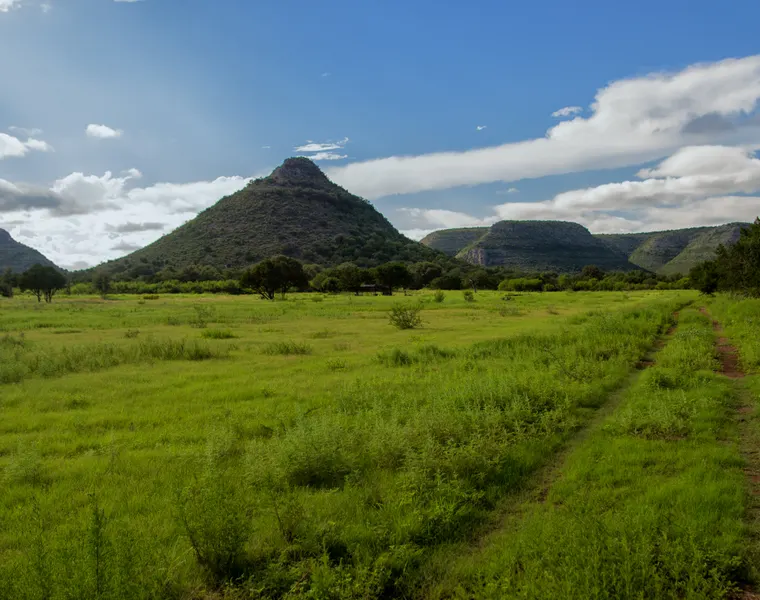
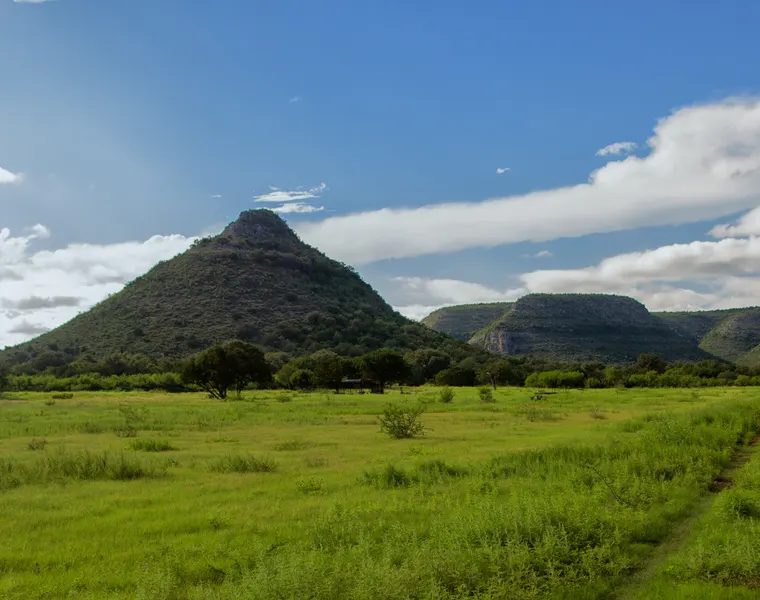
Modificaciones de Junta

diff --git a/script.js b/script.js
@@ -225,7 +225,7 @@ const T = {
           "Todo incluido (3 comidas + alcohol)",
           "↳ Hospedaje",
           "↳ Guía",
-          "↳ 1 animal",
+          "↳ 1 Venado",
         ],
         deposit: 7500,
       },
@@ -239,7 +239,7 @@ const T = {
           "Todo incluido (3 comidas + alcohol)",
           "↳ Hospedaje",
           "↳ Guía",
-          "↳ 1 animal",
+          "↳ 1 Venado",
         ],
         deposit: 7500,
       },
@@ -253,7 +253,7 @@ const T = {
           "Todo incluido (3 comidas + alcohol)",
           "↳ Hospedaje",
           "↳ Guía",
-          "↳ 1 animal",
+          "↳ 1 Guajolote",
         ],
         deposit: 1500,
       },
@@ -449,15 +449,15 @@ const T = {
       hotel_pn_opts: [
         {
           value: "hampton",
-          label: "Hampton by Hilton Piedras Negras",
+          label: "Hampton by Hilton Piedras Negras (Incluye traslado)",
         },
         {
           value: "hyatt",
-          label: "Hyatt Place Piedras Negras",
+          label: "Hyatt Place Piedras Negras (Incluye traslado)",
         },
         {
           value: "otro",
-          label: "Otro (especificar)",
+          label: "Otro (No incluye traslado)",
         },
       ],
       notes: "Notas / Solicitudes Especiales",
@@ -1194,7 +1194,7 @@ const TROFEOS = {
 };
 
 const HISTORIA = {
-  history: "images/historia/67.webp",
+  history: "images/historia/67.jpg",
 };
 
 const ACTIVITIES = {
@@ -2184,7 +2184,7 @@ function HowToArriveSection({ t }) {
           {
             className: "w-full",
             style: {
-              aspectRatio: "16/10",
+              aspectRatio: "16/6",
             },
           },
           React.createElement("iframe", {
@@ -6130,13 +6130,6 @@ function Footer({ t }) {
         ),
       ),
       React.createElement(
-        "p",
-        {
-          className: "font-serif italic text-cream/70 mb-6 max-w-2xl mx-auto",
-        },
-        t.footer.tagline,
-      ),
-      React.createElement(
         "div",
         {
           className: "gold-divider mb-6",
@@ -6149,6 +6142,13 @@ function Footer({ t }) {
           },
           "ZARAGOZA \xB7 COAHUILA \xB7 M\xC9XICO",
         ),
+      ),
+      React.createElement(
+        "p",
+        {
+          className: "font-serif italic text-cream/70 mb-6 max-w-2xl mx-auto",
+        },
+        t.footer.tagline,
       ),
       React.createElement(
         "p",